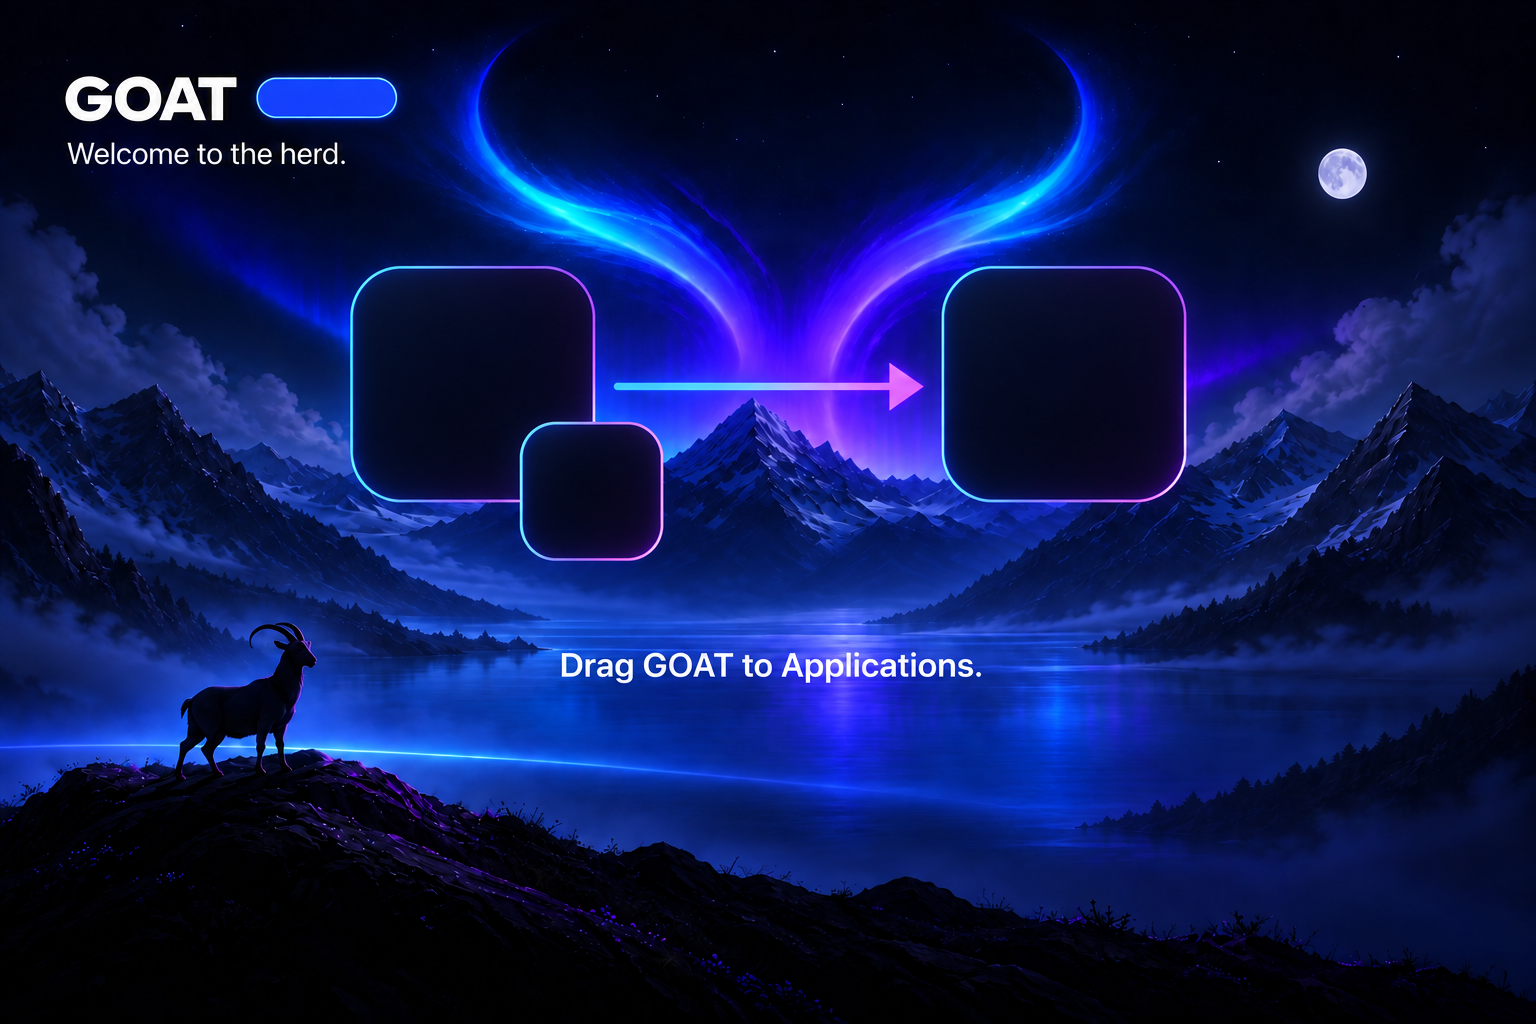
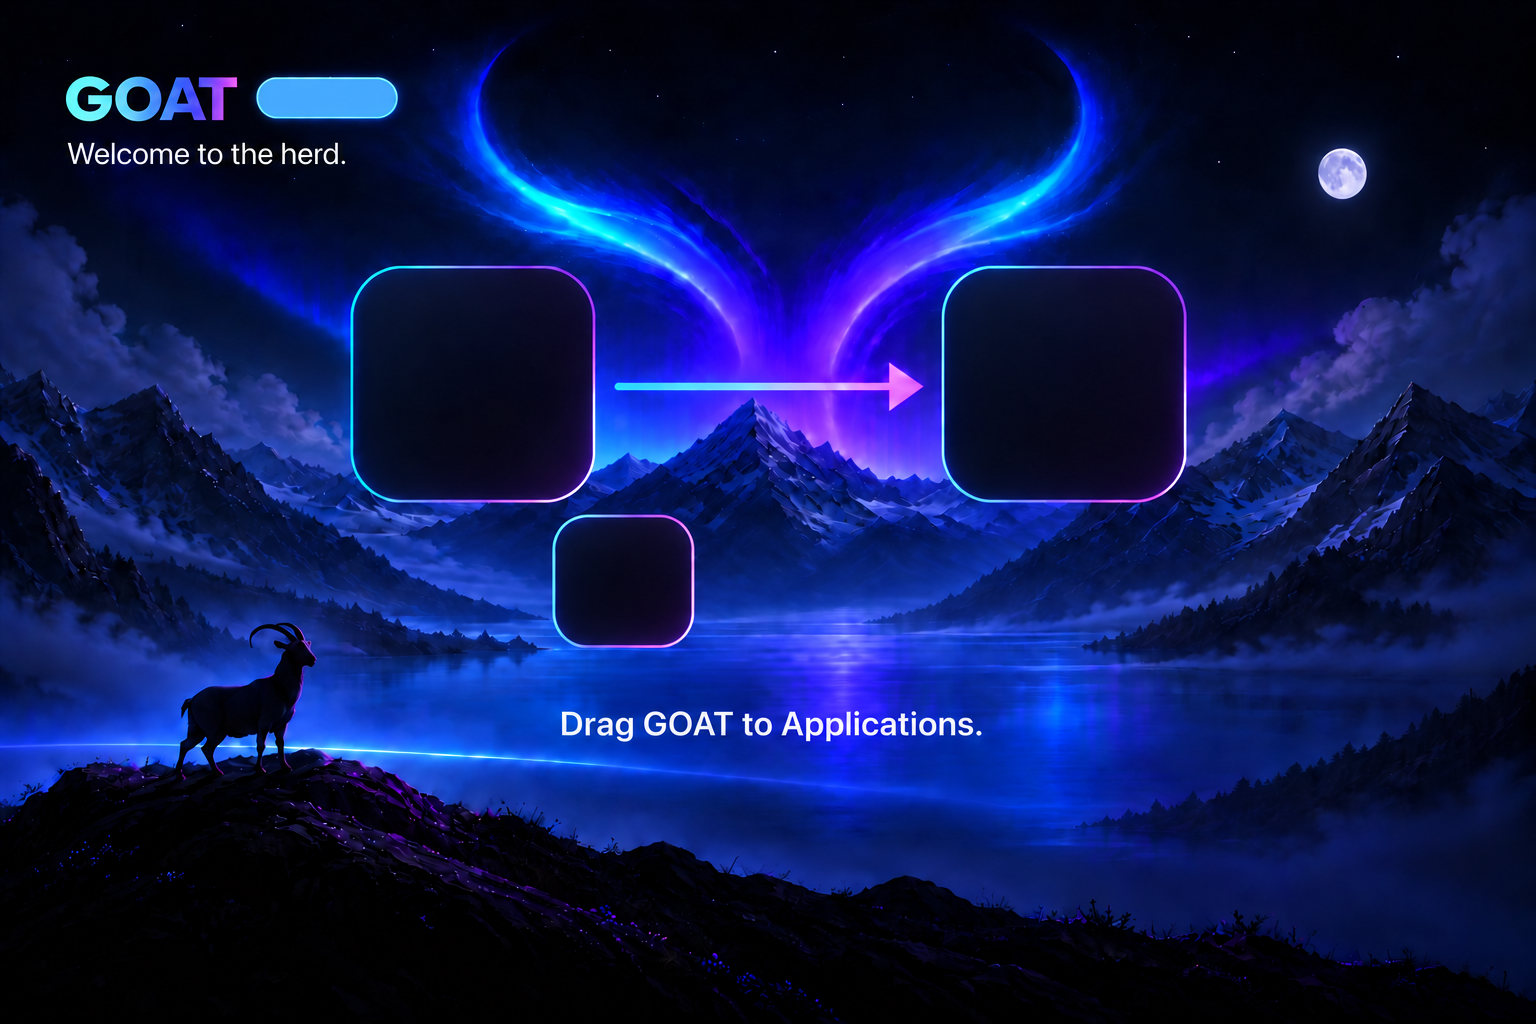
fix: restore gradient branding and give CLI tile more space

diff --git a/apps/goat-macos/scripts/dmg-background.swift b/apps/goat-macos/scripts/dmg-background.swift
@@ -28,7 +28,7 @@ guard let info = try PropertyListSerialization.propertyList(from: plistData, for
 let text = "BUILD \(build)" as NSString
 let attributes: [NSAttributedString.Key: Any] = [
     .font: NSFont.monospacedSystemFont(ofSize: 9, weight: .medium),
-    .foregroundColor: NSColor.white,
+    .foregroundColor: NSColor(srgbRed: 0.02, green: 0.10, blue: 0.22, alpha: 1),
 ]
 let textSize = text.size(withAttributes: attributes)
 guard textSize.width <= 60 else { fail("build number does not fit the artwork capsule") }

diff --git a/apps/goat-macos/scripts/dmg-window.py b/apps/goat-macos/scripts/dmg-window.py
@@ -78,7 +78,7 @@ def check_layout(data):
     if not options.get("backgroundImageAlias"):
         raise ValueError("missing Finder background reference")
     for name, position in {"GOAT.app": (222, 180), "Applications": (499, 180),
-                           "CLI Tools": (277, 207), "Licence": (638, 401), ".background": (532, 401)}.items():
+                           "CLI Tools": (292, 249), "Licence": (638, 401), ".background": (532, 401)}.items():
         _, blob = blob_record(data, name, b"Iloc")
         if len(blob) != 16 or struct.unpack_from(">II", blob) != position:
             actual = struct.unpack_from(">II", blob) if len(blob) >= 8 else None

diff --git a/apps/goat-macos/art/dmg/README.md b/apps/goat-macos/art/dmg/README.md
@@ -2,12 +2,12 @@
 
 The current background and CLI icon were created with the built-in ImageGen tool from the owner's Midnight base and GOAT icon reference. They replace the first circular-layout exports. Source masters retain the generated artwork and transparency; packaging renders the final background locally. These pictures are Brand Assets under [LICENSE-ART.md](../../../../LICENSE-ART.md). The authoring [prompts](PROMPTS.md) are retained for reference; measured export geometry governs Finder placement.
 
-- `goat-dmg-background-source.png`: 3:2 ImageGen landscape with two main squircles, an attached smaller CLI squircle, raised arrow, installation copy and an empty blue build capsule. No optional footer copy or divider.
+- `goat-dmg-background-source.png`: 3:2 ImageGen landscape with two main squircles, a separated smaller CLI squircle, raised arrow, installation copy and an empty blue build capsule. No optional footer copy or divider.
 - `goat-cli-icon.png`: transparent terminal tile in the GOAT icon family. Applied to the CLI Tools folder only, preserving the signed executable inside it.
 
 ## Rendering and identity
 
-`dmg-background.swift` reads the actual validated app's Info.plist and fills the blue capsule beside GOAT with `BUILD <number>` in native SF Mono. Missing, invalid or oversized build labels fail instead of producing a placeholder. It exports 720 x 480 at 72 DPI and 1440 x 960 at 144 DPI, then macOS `tiffutil` combines both representations for the 720 x 480-point Finder canvas. The image's `build.json`, the volume title, app and release manifest agree on identity. No image service runs during packaging.
+`dmg-background.swift` reads the actual validated app's Info.plist and fills the light-blue capsule beside the gradient GOAT wordmark with `BUILD <number>` in dark navy native SF Mono. Missing, invalid or oversized build labels fail instead of producing a placeholder. It exports 720 x 480 at 72 DPI and 1440 x 960 at 144 DPI, then macOS `tiffutil` combines both representations for the 720 x 480-point Finder canvas. The image's `build.json`, the volume title, app and release manifest agree on identity. No image service runs during packaging.
 
 ## Finder layout
 
@@ -15,11 +15,13 @@ The current background and CLI icon were created with the built-in ImageGen tool
 | --- | --- | --- | --- |
 | GOAT.app | (222, 180) | (222, 180) | 96 |
 | Applications | (499, 180) | (499, 180) | 96 |
-| CLI Tools | (277, 207) | (277, 231) | 48 |
+| CLI Tools | (292, 249) | (292, 273) | 48 |
 | Licence | (638, 401) | (638, 425) | 48 |
 | .background | (532, 401) | (532, 425) | 48 |
 | .fseventsd, when present | (426, 401) | (426, 425) | 48 |
 
 Finder only supports one icon size per window. Smaller icons use transparent padding in the 96-point footprint, positioning the artwork 24 points below the anchor and leaving room for filenames. Other hidden support folders, when present, occupy the remaining footer slots to the left. They never cover the header, even with Show Hidden Files enabled. Packaging does not change that global preference.
+
+The CLI recess sits below and to the right of the app recess with a visible gap. Finder retains dark native filename labels over picture backgrounds; the artwork intentionally has no added label backings.
 
 The saved window hides its toolbar, sidebar, status bar and tab bar. Finder's 32-point title bar adds to the 480-point canvas. Packaging requires Finder in a logged-in macOS session and permission for the packaging terminal to automate Finder. It refuses an invalid saved layout. Opening the volume in a fresh window uses that geometry; navigation inside an existing Finder window retains that window's chrome.

diff --git a/apps/goat-macos/art/dmg/PROMPTS.md b/apps/goat-macos/art/dmg/PROMPTS.md
@@ -1,5 +1,13 @@
 # ImageGen prompts
 
+## Final header refinement
+
+Use case: precise-object-edit. Make ONLY two colour corrections in the top-left branding of this existing 1536x1024 Finder installer background. 1. Restore a strong but tasteful cyan-to-violet horizontal gradient across the actual letter fills of the word 'GOAT', from icy cyan at G through clear blue to lilac/violet at T. The word must no longer be plain white. Preserve the exact GOAT letterforms, bold weight, position and size. 2. Change the small EMPTY rounded build capsule immediately beside GOAT from intense saturated royal blue to a softer lighter sky blue, approximately #66BCF5 with a restrained pale-cyan edge and reduced glow. Keep its exact position, shape and dimensions and leave it completely empty for later build metadata. Preserve the welcome sentence, landscape, both large empty squircle recesses, arrow, the smaller separated CLI recess with its clear gap from the app, the installation sentence and all other pixels and geometry as closely as possible. No added icons, no new words, no label backings, no footer line, no additional edits.
+
+## Final spacing refinement
+
+Use case: precise-object-edit. Edit the provided macOS Finder installer background, keeping the same 1536x1024 canvas and preserving the landscape, header, empty blue build capsule, both large main squircle recesses and arrow exactly. Move ONLY the smaller EMPTY CLI squircle away from the app recess: its new centre must be pixel (627,593) and its size remains 142x138 pixels. Its top edge should be at y524, leaving a clearly visible 22-pixel vertical gap below the main app recess bottom at y502. They must NOT overlap or touch. This is a separate companion tile below and slightly right of the app, with generous breathing room. Erase the previous CLI recess at (592,491), restoring the mountain landscape and completing the main app squircle border where it had overlapped. Move the sentence 'Drag GOAT to Applications.' downward, centre it at pixel (768,747), preserving exact typography and wording. Do not change anything else. No actual app icons or folders, no CLI glyph, no extra text, no footer line, no labels, no panels behind names. Keep the blue capsule empty. The output is background artwork only.
+
 ## Final CLI refinement
 
 Precise icon edit: remove only the small horn/GOAT masthead mark above the terminal prompt. Keep the same dark navy squircle tile, luminous cyan-left/violet-right rim, glass treatment and genuinely transparent outer background. Rebalance the existing '>_' terminal prompt so it is centred as the sole large glyph, immediately readable at 48x48 points. Preserve the icon's visual style; no other logo, no words, no tiny decorative marks, no folder, no extra symbols, no perspective. Output one square PNG with true alpha.
